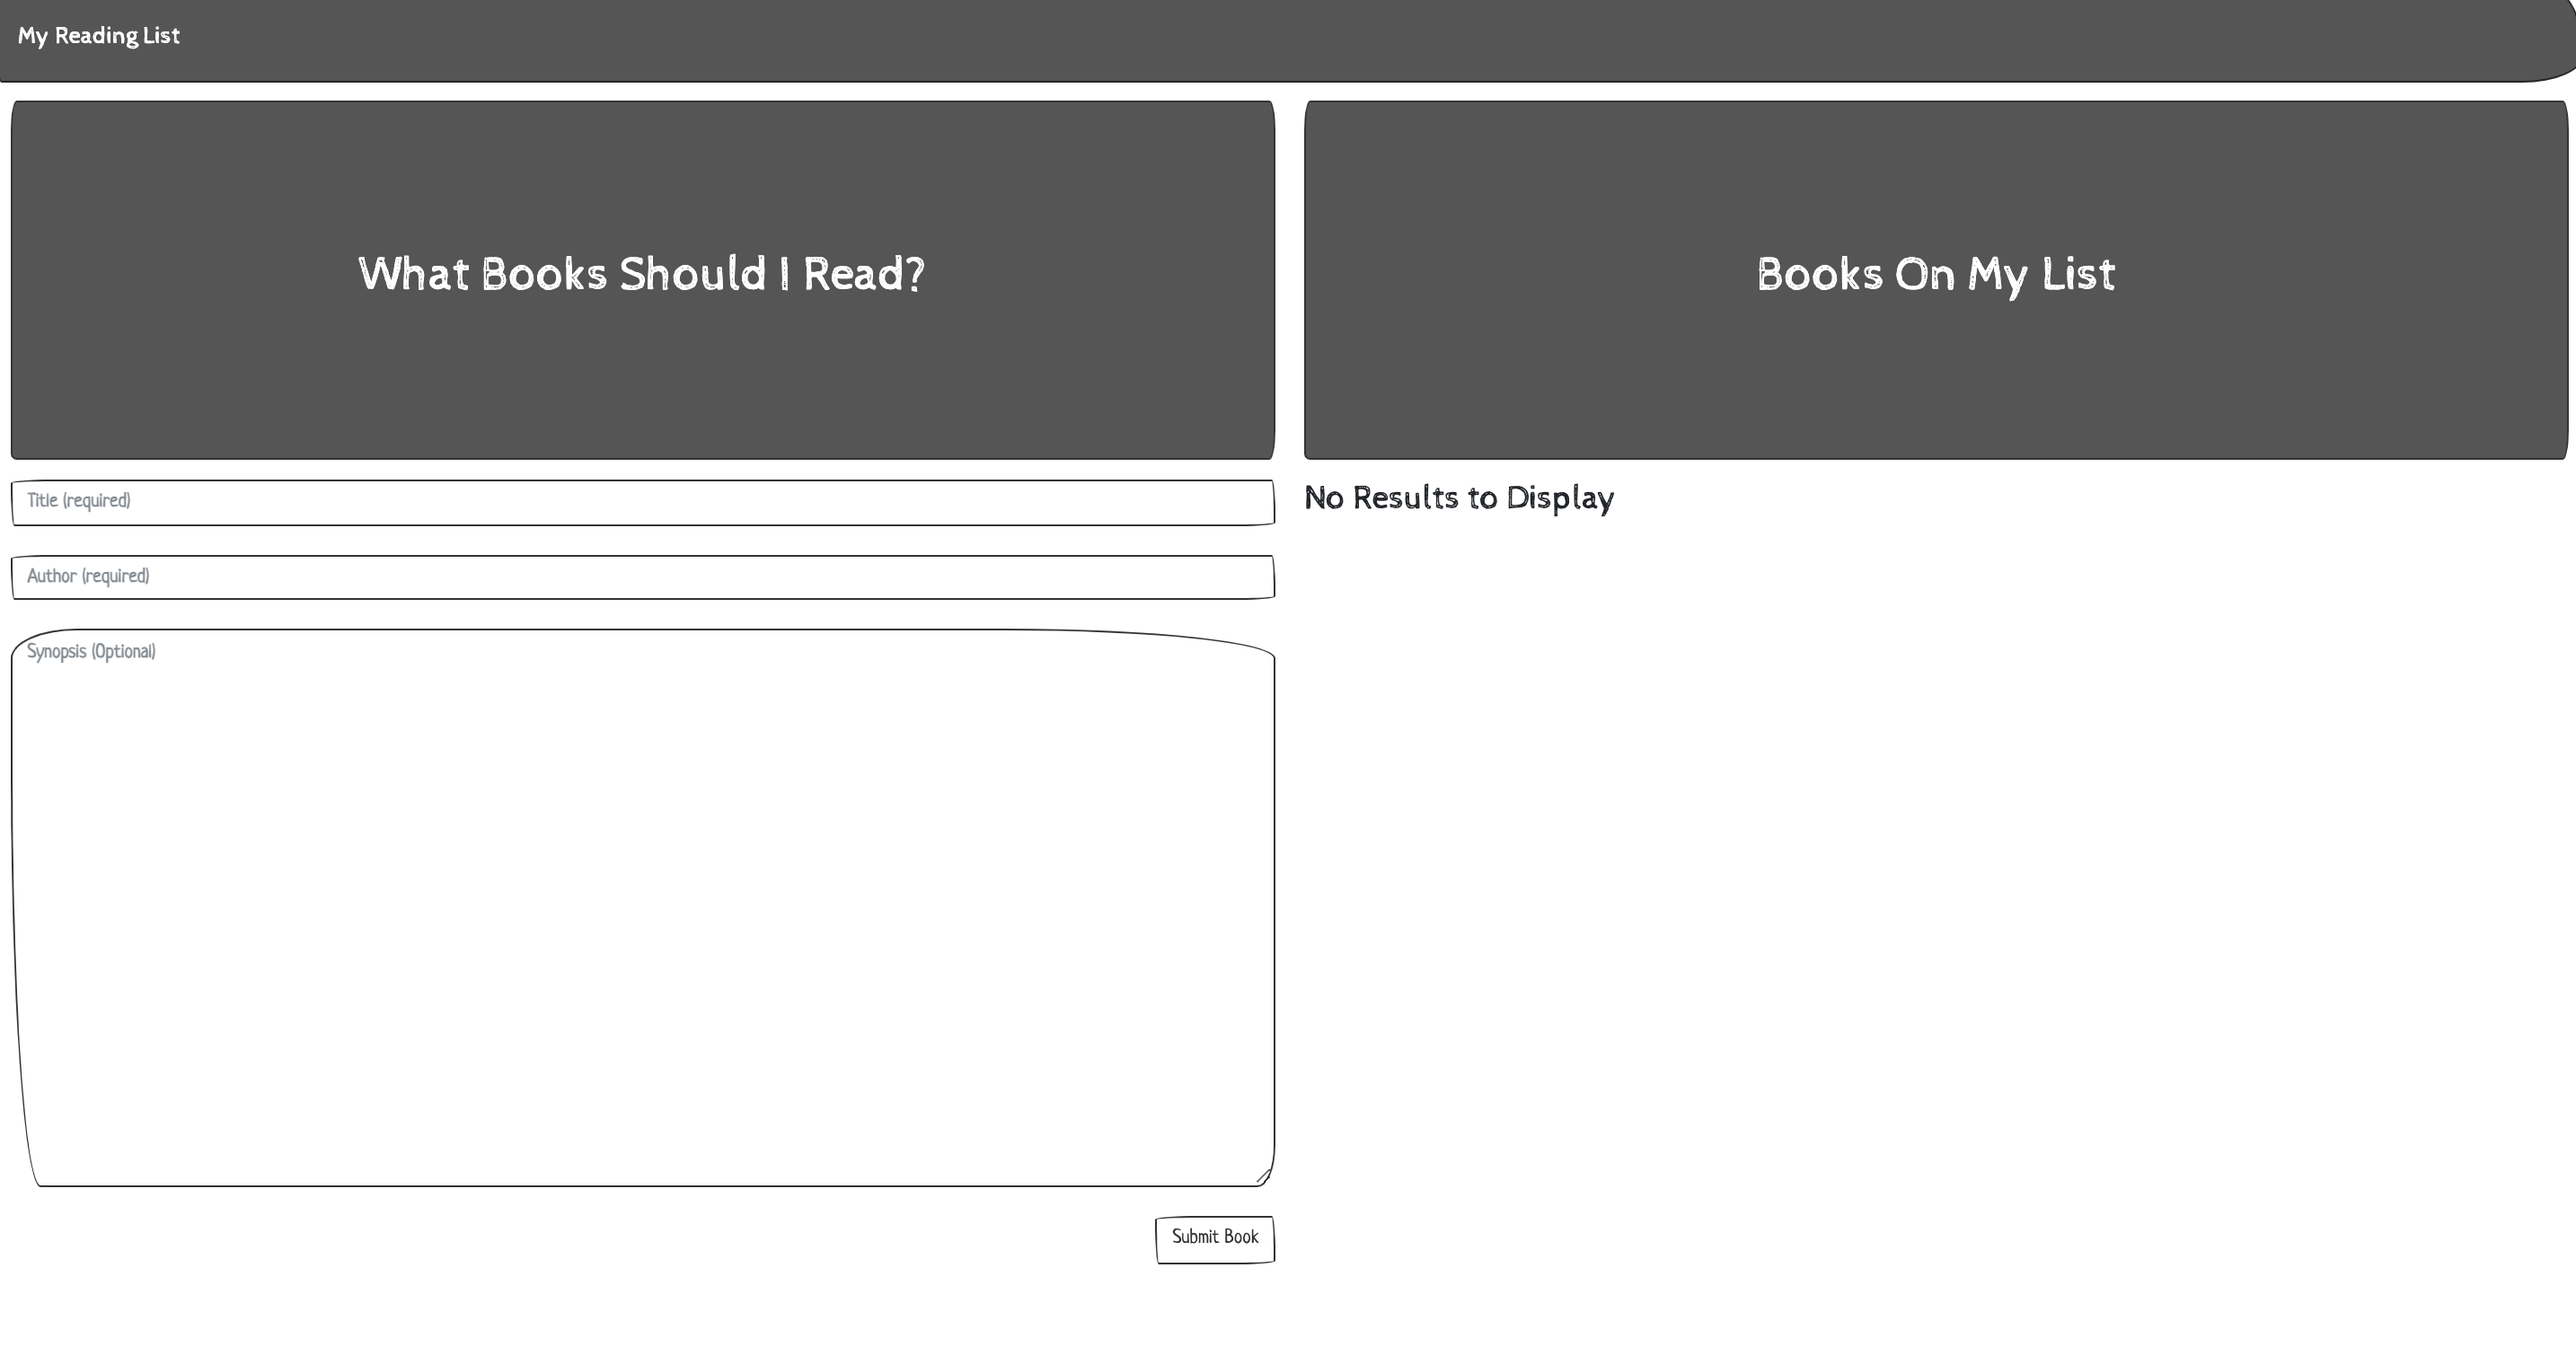
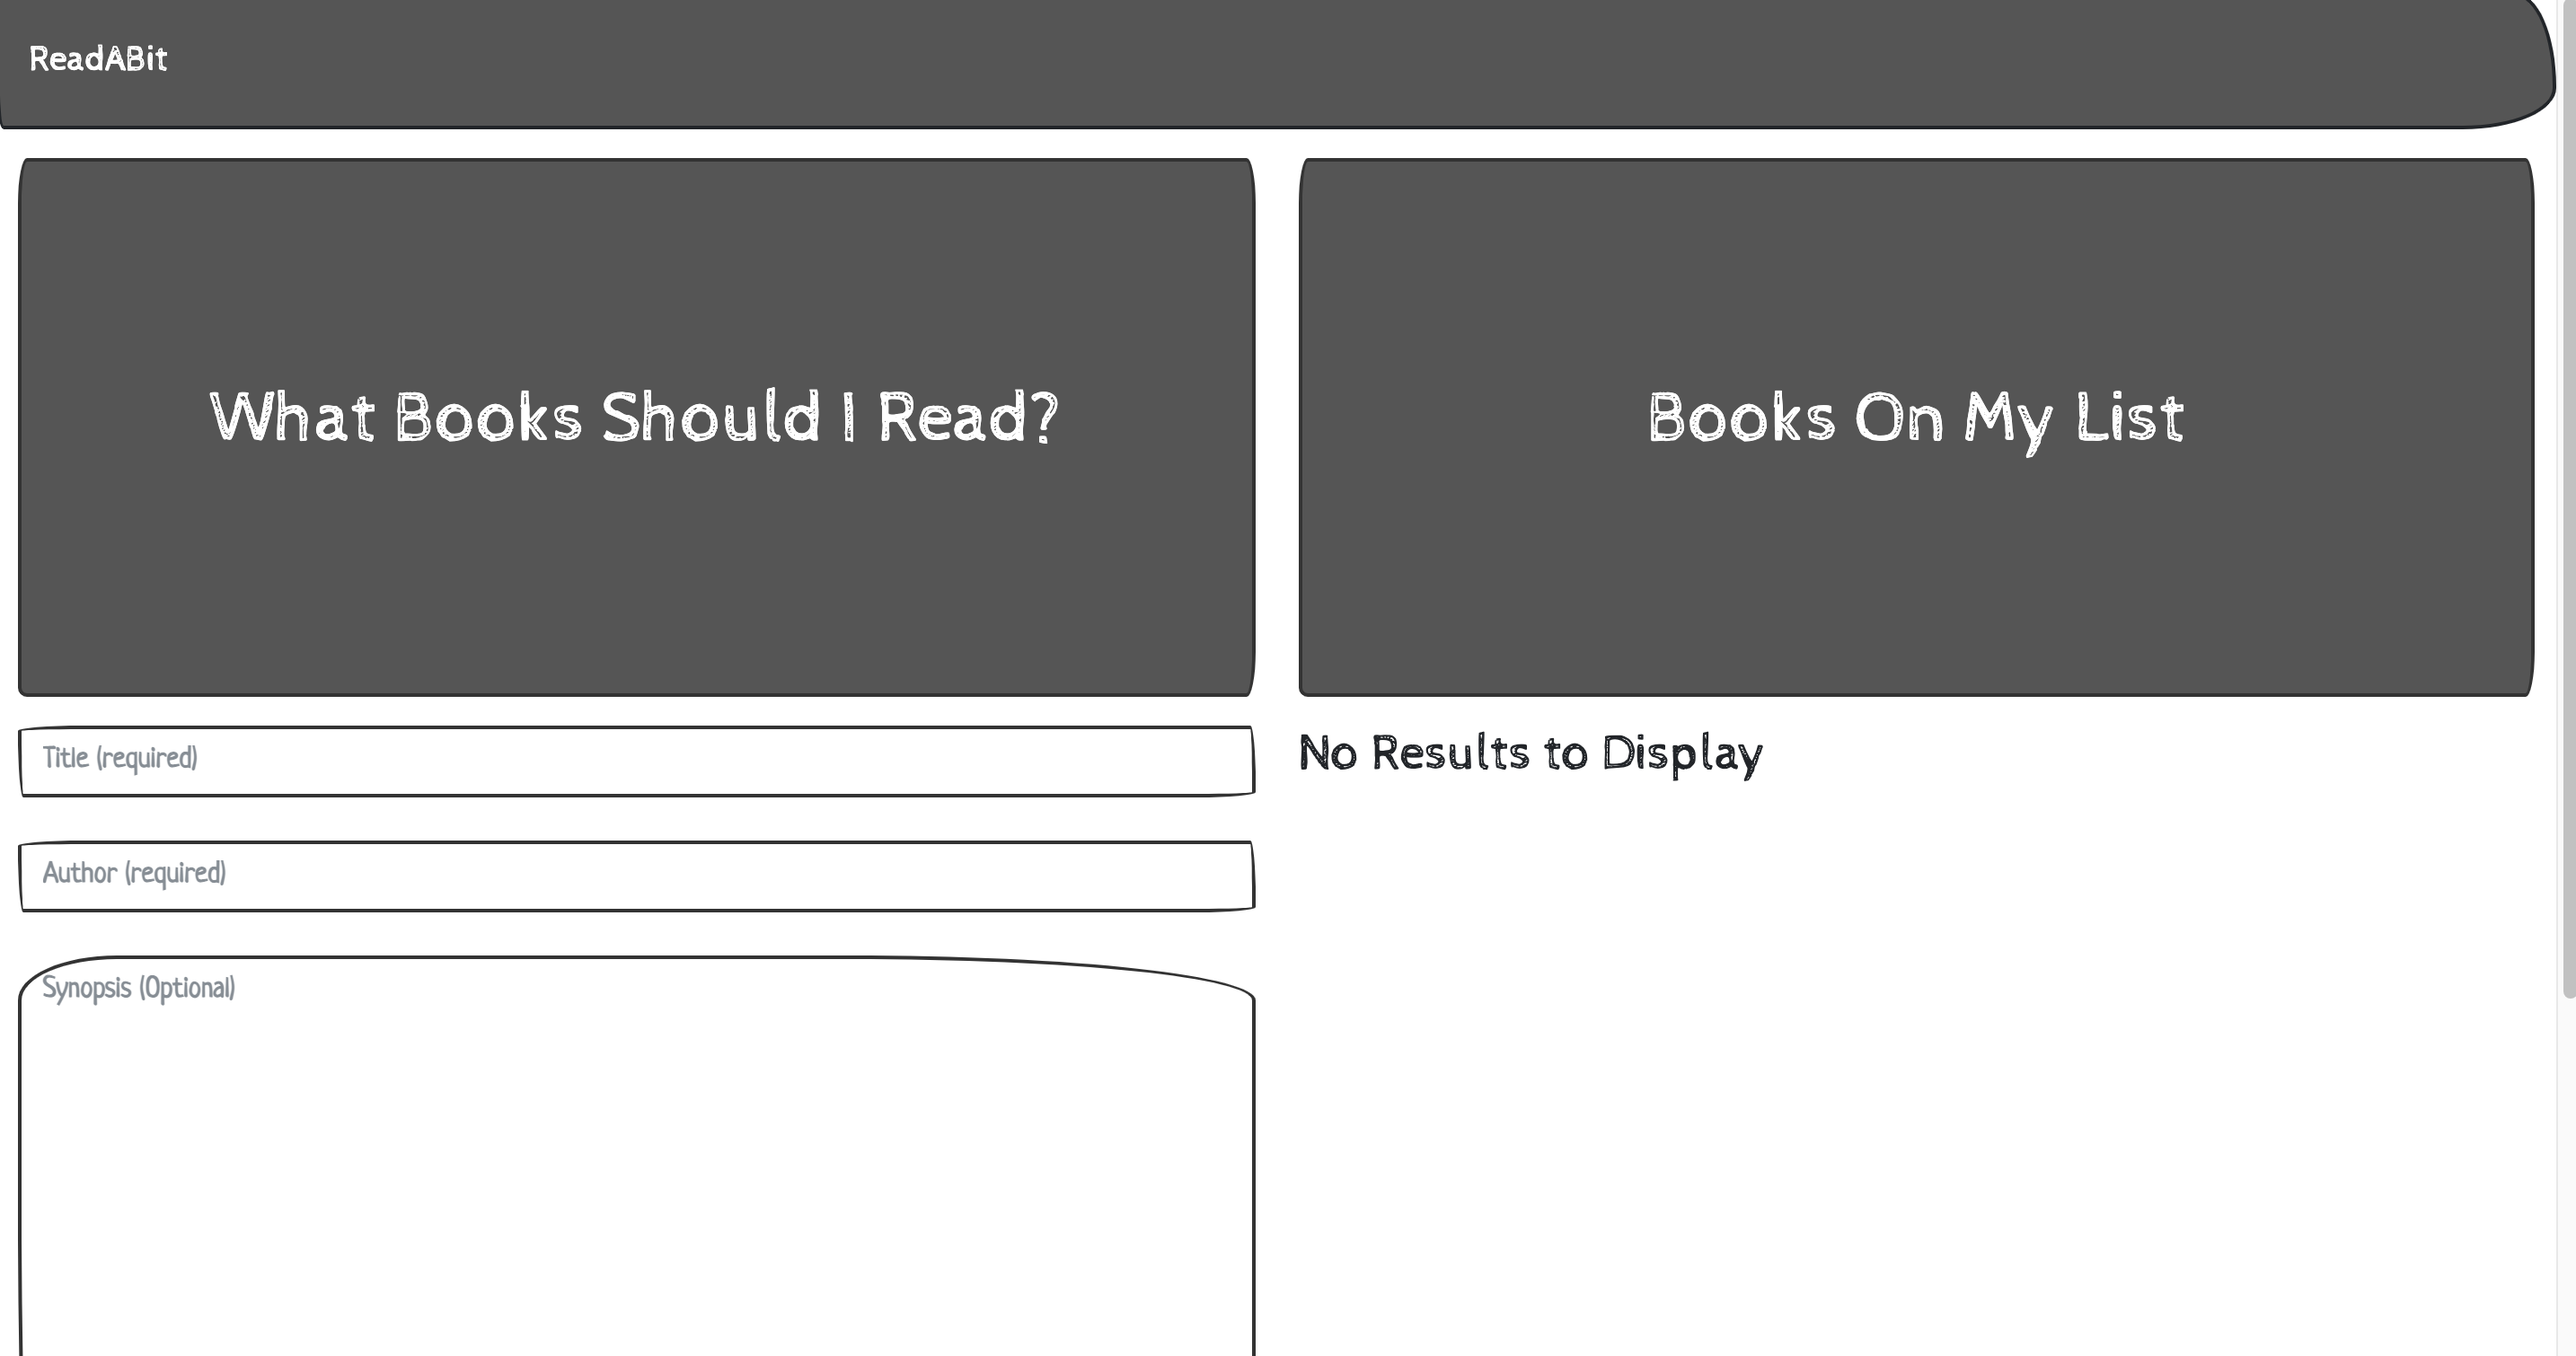
more instructions

diff --git a/client/src/components/Nav/index.js b/client/src/components/Nav/index.js
@@ -4,7 +4,7 @@ function Nav() {
   return (
     <nav className="navbar navbar-expand-lg navbar-dark bg-dark p-3">
       <a className="navbar-brand" href="/">
-        My Reading List
+        ReadABit
       </a>
     </nav>
   );
